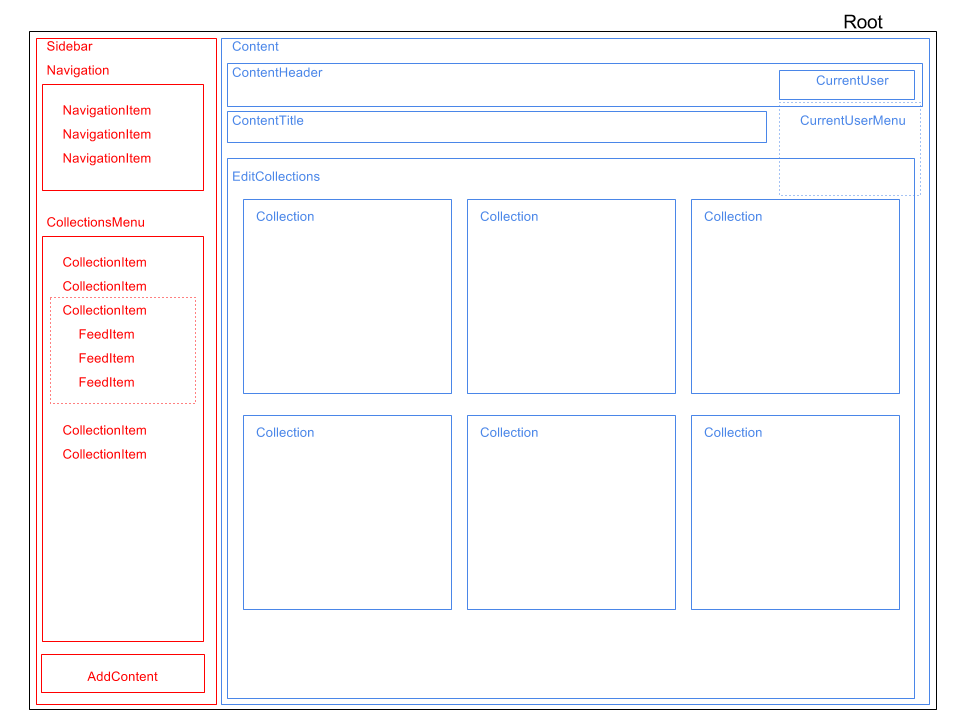
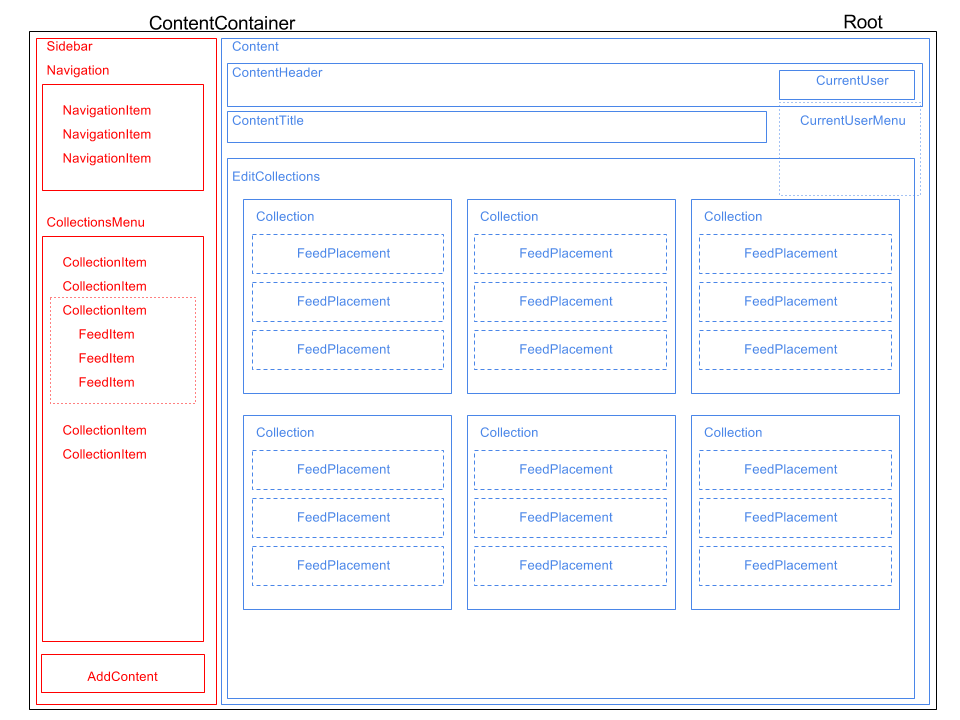
add component-hierarchy and update wireframe labels

diff --git a/docs/component-hierarchy.md b/docs/component-hierarchy.md
@@ -1,0 +1,42 @@
+# Component Heirarchy
+* Root
+ * HomeContent
+   * AuthContainer
+      * SignupForm
+      * LoginForm
+  * ContentContainer
+    * Sidebar
+     * Navigation
+        * NavigationItem
+     * CollectionMenu
+        * CollectionItem
+          * FeedItem
+      * AddContent
+    * Content
+      * ContentHeader
+        * CurrentUserMenu
+      * Content Title
+      * MainContent
+        * Popular
+          * FeedPreview
+        * Collection
+          * ArticlePreview
+          * Article
+        * Feed
+          * ArticlePreview
+          * Article
+        * EditCollections
+          * CollectionOverview
+            * FeedPlacement
+
+## Routes
+
+| Path        | Component           |
+| ------------- |:-------------:|
+| "/"     | "HomeContent (if not logged in)" |
+| "/signup"     | "AuthContainer"      |
+| "/login" | "AuthContainer"      |
+| "/home" | "Popular"      |
+| "/collections" | "EditCollections"      |
+| "/feed/:feedId" | "Feed"      |
+| "/collection/:collectionName" | "Collection"      |

diff --git a/docs/README.md b/docs/README.md
@@ -32,6 +32,7 @@ If time allows, the following bonus features will be added:
 
 ---
 ## Wireframes
+* [User flow](https://github.com/karmapoint/PostReader/blob/master/docs/wireframes/PostReader_User_flow.png)
 * [Home/Signup/Login - Logged Out](https://github.com/karmapoint/PostReader/blob/master/docs/wireframes/PostReader%20Wireframe%20Home%252FLogin%252FSignup%20-%20Logged%20out.png)
 * [Home/Popular - Logged In](https://github.com/karmapoint/PostReader/blob/master/docs/wireframes/PostReader%20Wireframe%20Home%252FPopular%20-%20Logged%20in.png)
 * [Collection/Article - Logged In](https://github.com/karmapoint/PostReader/blob/master/docs/wireframes/PostReader%20Wireframe%20Collection%252FArticle%20-%20Logged%20in.png)
